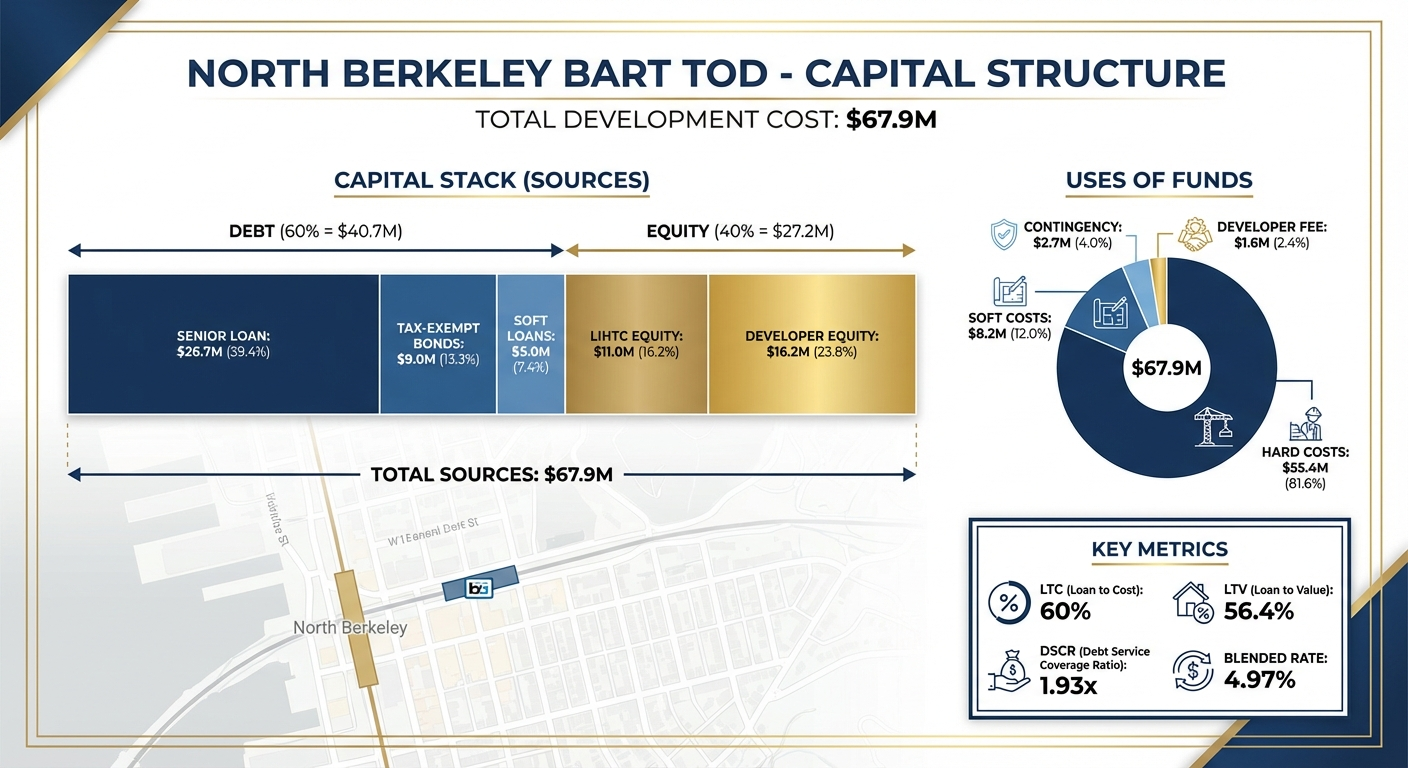
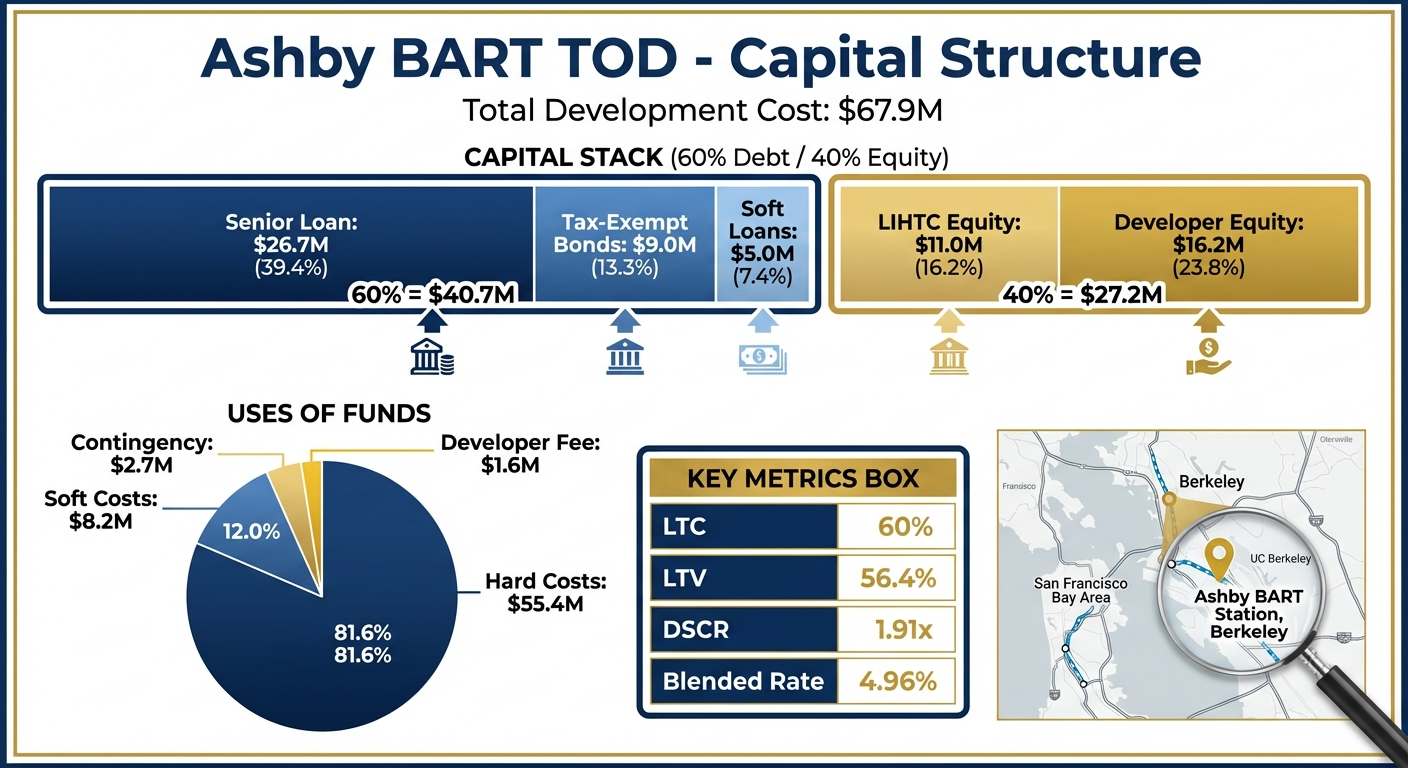
fixes

diff --git a/app/components/PropertyMap.tsx b/app/components/PropertyMap.tsx
@@ -146,7 +146,7 @@ export default function PropertyMap() {
     <div className="w-full py-4 px-4">
       {/* Title */}
       <div className="max-w-[1400px] mx-auto mb-4">
-        <h2 className="text-2xl font-bold text-gray-900">North Berkeley BART TOD - Rental Comparables Map</h2>
+        <h2 className="text-2xl font-bold text-gray-900">Ashby BART TOD - Rental Comparables Map</h2>
         <p className="text-gray-600 text-sm mt-1">1BR rental comps within 0.6 miles of project site</p>
       </div>
       
@@ -160,7 +160,7 @@ export default function PropertyMap() {
             <div className="flex items-start gap-3">
               <div className="w-4 h-4 bg-red-600 rounded-full border-2 border-white shadow mt-0.5 flex-shrink-0"></div>
               <div>
-                <div className="font-semibold text-red-700 text-sm">North Berkeley BART (Project)</div>
+                <div className="font-semibold text-red-700 text-sm">Ashby BART (Project Site)</div>
                 <div className="text-xs text-gray-500 mt-1">
                   144 units • 50% Affordable / 50% Market
                 </div>
@@ -252,12 +252,12 @@ export default function PropertyMap() {
             >
               <Tooltip 
                 permanent 
-                direction="left" 
-                offset={[-20, 0]}
+                direction="bottom" 
+                offset={[0, 20]}
                 className="project-site-label"
               >
-                <span className="font-bold text-red-700 text-xs whitespace-nowrap px-2 py-1 bg-white rounded shadow">
-                  North Berkeley BART
+                <span className="font-bold text-red-700 text-sm whitespace-nowrap px-3 py-1.5 bg-white rounded-lg shadow-lg border border-red-200">
+                  🏗 Ashby BART (Project)
                 </span>
               </Tooltip>
               <Popup>
@@ -295,9 +295,18 @@ export default function PropertyMap() {
           )}
 
           {/* Property Markers */}
-          {properties.map((property) => {
+          {properties.map((property, index) => {
             const icon = property.type === 'Market' ? marketIcon : affordableIcon;
             const colorClass = property.type === 'Market' ? 'text-blue-700' : 'text-green-700';
+            const bgClass = property.type === 'Market' ? 'bg-blue-50 border-blue-200' : 'bg-green-50 border-green-200';
+            
+            // Position labels to avoid overlap - different directions for each property
+            const labelPositions: Array<{direction: 'top' | 'bottom' | 'left' | 'right', offset: [number, number]}> = [
+              { direction: 'left', offset: [-18, 0] },    // 26FIFTY - left
+              { direction: 'right', offset: [18, 0] },   // Parker - right  
+              { direction: 'top', offset: [0, -18] },    // Harper Crossing - top
+            ];
+            const pos = labelPositions[index] || { direction: 'top' as const, offset: [0, -18] as [number, number] };
             
             return (
               <Marker
@@ -307,12 +316,12 @@ export default function PropertyMap() {
               >
                 <Tooltip 
                   permanent 
-                  direction="top"
-                  offset={[0, -15]}
+                  direction={pos.direction}
+                  offset={pos.offset}
                   className="comp-label"
                 >
-                  <span className={`text-[10px] font-semibold ${colorClass} whitespace-nowrap px-1.5 py-0.5 bg-white rounded shadow`}>
-                    {property.name}
+                  <span className={`text-sm font-bold ${colorClass} whitespace-nowrap px-3 py-1.5 ${bgClass} rounded-lg shadow-md border`}>
+                    {property.name} • ${property.monthlyRent.toLocaleString()}
                   </span>
                 </Tooltip>
                 <Popup>

diff --git a/app/data/properties.ts b/app/data/properties.ts
@@ -61,7 +61,7 @@ export const properties: Property[] = [
 // Project site (Ashby BART Station)
 export const projectSite = {
   id: 0,
-  name: "North Berkeley BART TOD",
+  name: "Ashby BART TOD",
   address: "3101 Martin Luther King Jr Way & 3100 Adeline St, Berkeley, CA",
   type: "Project" as const,
   unitType: "Mixed",
